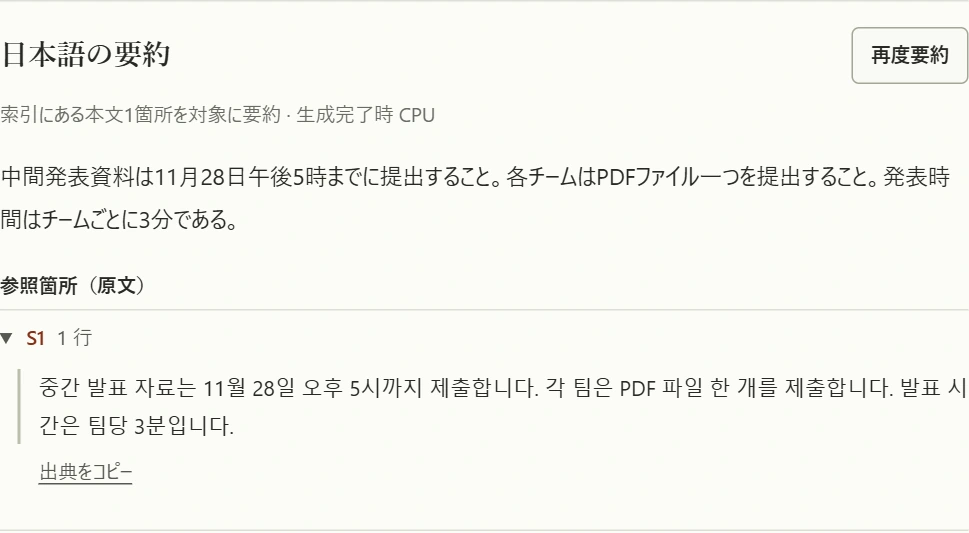
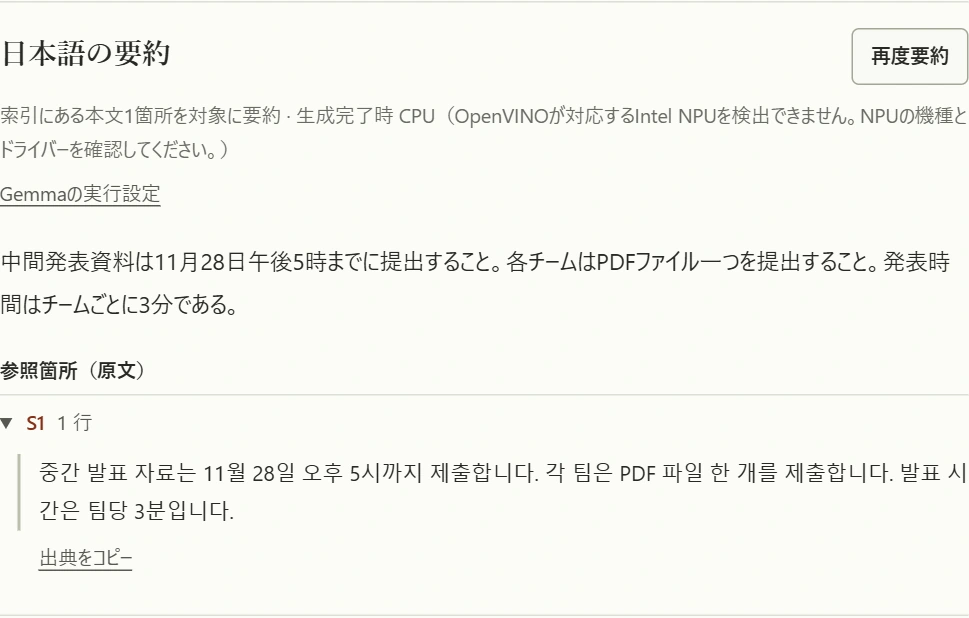
Windows 0.3.8のNPU要約と負荷グラフを案内する (#23)
* NPU要約の実行設定と負荷グラフを実画面で案内する

* 検証済みの0.3.8大学用オフラインZIPを登録する

---------

diff --git a/public/guide/index.html b/public/guide/index.html
@@ -20,7 +20,7 @@
   </header>
   <main id="main" class="frame guide-layout" tabindex="-1">
     <div class="guide-title">
-      <p class="guide-edition">Scene Finder ／ Windows版 0.3.7</p>
+      <p class="guide-edition">Scene Finder ／ Windows版 0.3.8</p>
       <h1>使い方</h1>
       <p>「最終レポートの提出期限」で検索し、課題要項のどこに締切が書かれているかを調べる例です。画面には架空の講義資料を使っています。ご自身のPCでは、手元の資料に合わせて検索語を置き換えてください。画像はクリックやタップで拡大できます。</p>
     </div>
@@ -117,16 +117,23 @@
         <p>登録フォルダーの横の<strong>「…」</strong>で、その授業の自動要約をオンにします。初期設定はオフです。オンにした授業を選ぶと、一覧を表示したまま、本文を読み取れた文書をGemmaが1件ずつ要約します。通常版で初めて使うときは、下の手順でGemmaを追加してください。</p>
         <p>一覧で要点を読み、詳しく知りたい資料を開くと出典を確認できます。別の授業に移っても完成した要約はこのPCに残り、戻ると続きから進みます。文書の更新は「再解析」で取り込みます。その授業の自動要約をオフにすると、保存した要約も削除されます。</p>
         <figure class="guide-shot"><a href="/assets/guide/folder-summaries.webp" target="_blank" rel="noopener" aria-label="文書ごとの自動要約を拡大（新しいタブ）"><img src="/assets/guide/folder-summaries.webp" width="1371" height="611" alt="ファイル一覧で自動要約が2件完了し、読書会と中間発表の要点がそれぞれの資料の下に表示されている。" loading="lazy"></a><figcaption>各資料の「要約」を見比べられます。資料名を押すと要約の全文と出典が開きます。</figcaption></figure>
-        <h3>要約に使ったデバイスを確認する</h3>
-        <p>対応するIntel NPUを搭載したPCでは、手動・自動要約の言語生成にNPUを使います。利用できない場合はCPUで要約を続けます。実行中はアプリ左下の「OpenVINO」を開き、「Gemma」の行を確認できます。完了後は要約の見出しの下に「生成完了時 NPU」または「生成完了時 CPU」と表示されます。0.3.5以前に保存した要約にはデバイス名が付きません。画面上部のNPU負荷グラフには、ほかのアプリも含むPC全体の使用率が表示されます。</p>
-        <p>大学用オフライン版には、NPUとCPUの両方に対応するGemmaが入っています。配布元が案内しているWindows用Intel NPUドライバーのバージョンは32.0.100.4023です。通常版で以前のGemmaを追加した場合は、引き続きCPUで使えます。Intel NPUが検出されたPCで対応モデルを追加するときは、資料のプレビューで<strong>「NPU対応Gemmaを追加」</strong>を押します。</p>
+        <h3 id="npu">Gemmaでの要約にNPUを使う</h3>
+        <p>通常版と大学用オフライン版は、対応するIntel NPUを優先して文章を生成します。大学用にはNPU対応のGemmaが同梱されています。通常版で旧モデルを使用している場合は、対応PCのプレビューに表示される「NPU対応Gemmaを追加」から導入します。</p>
+        <ol>
+          <li>左下の<strong>「OpenVINO」</strong>かプレビューの<strong>「Gemmaの実行設定」</strong>を開きます。「Gemma要約の実行先」で<strong>「NPUのみ（使えないときは停止）」</strong>を選ぶと、GemmaがNPUで文章を生成できないときは理由が表示されます。CPUでも続けたい場合は「NPUを優先」に戻します。</li>
+          <li>文書を開いて<strong>「資料を要約」</strong>を押します。すでに保存済みなら<strong>「再度要約」</strong>を押してください。保存済みの結果を開くだけでは、新たな計算は発生しません。</li>
+          <li>実行中はプレビュー内の負荷グラフ、完了後は<strong>「生成完了時 NPU」</strong>で実行先を確認します。前処理ではCPUも使われます。「NPU全体」の線と60秒の最大値は、そのPC全体でWindowsが計測した値です。縦軸が自動で拡大するので、低い使用率も読み取れます。</li>
+        </ol>
+        <figure class="guide-shot compact"><a href="/assets/guide/gemma-device.webp" target="_blank" rel="noopener" aria-label="Gemmaの実行設定を拡大（新しいタブ）"><img src="/assets/guide/gemma-device.webp" width="645" height="243" alt="NPUのみを選択した設定画面。OpenVINOでIntel NPUを検出できず、NPU対応Gemmaは導入済みと表示されている。" loading="lazy"></a><figcaption>NPUを搭載していない検証用PCの画面です。「NPUのみ」を選ぶと、NPUを使えない場合は要約を停止します。</figcaption></figure>
+        <figure class="guide-shot"><a href="/assets/guide/gemma-load.webp" target="_blank" rel="noopener" aria-label="要約中の負荷グラフを拡大（新しいタブ）"><img src="/assets/guide/gemma-load.webp" width="969" height="210" alt="NPU全体は未検出、アプリCPUの使用率は破線のグラフで表示されている。Gemmaの実行先はCPU。" loading="lazy"></a><figcaption>同じPCで「NPUを優先」に戻し、実際に要約した例です。破線はアプリのCPU使用率で、下の「Gemma」の行で文章を生成しているデバイスを確認できます。</figcaption></figure>
+        <p>「未検出」「計測不可」などが表示されたら、実行設定でOpenVINOがIntel NPUを検出したか、NPU対応Gemmaが導入済みかを確認してください。「診断をコピー」には実行先や停止理由が入り、資料名や本文は入りません。ドライバーは大学の管理者またはPCメーカーの配布元で確認できます。<a href="https://huggingface.co/OpenVINO/gemma-4-E2B-it-int4-cw-ov" rel="noopener">モデル配布元の動作条件</a></p>
         <h3>ひとつの資料を手動で要約する</h3>
         <ol>
           <li>PDF、Word、Excel、PowerPoint、テキスト資料などの検索結果をひとつ開きます。</li>
           <li>通常版の初回は<strong>「Gemmaを追加（4.33 GB）」</strong>でモデルを取得し、完了後に<strong>「資料を要約」</strong>を押します。ダウンロードするのは要約用モデルです。原文にはこのPCで索引に取り込んだ資料の本文を使います。Gemmaを追加済みのPCと大学用オフライン版は、最初から「資料を要約」を押せます。</li>
           <li>下の例では「参照箇所（原文）」の<strong>「S1　1 行」</strong>を開きます。中間発表資料の提出期限が11月28日午後5時であることを、元の韓国語の案内で確認できます。</li>
         </ol>
-        <figure class="guide-shot compact"><a href="/assets/guide/summary.webp" target="_blank" rel="noopener" aria-label="日本語の要約と韓国語の原文を拡大（新しいタブ）"><img src="/assets/guide/summary.webp" width="969" height="533" alt="CPUで日本語に要約した中間発表の案内。提出期限は11月28日午後5時、提出するPDFは各チーム1件、発表時間は3分と表示され、下にS1の韓国語原文が開いている。" loading="lazy"></a><figcaption>韓国語で書かれた中間発表の案内。日本語の要約と原文を同じ画面で読み比べられます。</figcaption></figure>
+        <figure class="guide-shot compact"><a href="/assets/guide/summary.webp" target="_blank" rel="noopener" aria-label="日本語の要約と韓国語の原文を拡大（新しいタブ）"><img src="/assets/guide/summary.webp" width="969" height="618" alt="CPUで日本語に要約した中間発表の案内。提出期限は11月28日午後5時、提出するPDFは各チーム1件、発表時間は3分と表示され、下にS1の韓国語原文が開いている。" loading="lazy"></a><figcaption>韓国語で書かれた中間発表の案内。日本語の要約と原文を同じ画面で読み比べられます。</figcaption></figure>
         <p>処理中は経過時間が表示されます。このPCでの実績や進み具合から予測できるときは「残り約○秒」が出ます。プレビューを閉じて待つ場合は、完了通知の「要約を見る」から戻れます。</p>
         <h3 id="close-preview">読み終えた位置から検索結果に戻る</h3>
         <p>要約の参照番号を押して原文を読み、読み終えたらプレビュー右上の<strong>「×」</strong>を押します。本文や出典を末尾までスクロールしても「×」は同じ位置に残ります。キーボードでは<strong>Escキー</strong>で閉じられます。</p>
@@ -152,9 +159,9 @@
           <div><dt>追加した資料が見つからない</dt><dd>登録フォルダーの「…」から「再解析」を選びます。授業フォルダーを取り違えたときは、「すべてのフォルダー」と種類の「すべて」で検索し直します。</dd></div>
           <div><dt>スキャンしたPDFの文字が違う</dt><dd>「OCR」はWindowsの文字認識で読み取った抜粋です。日付や数値は元のPDFを開いて確かめてください。</dd></div>
           <div><dt>文字を大きくしたい</dt><dd>アプリ上部の「文字サイズ」で90〜150%を選べます。選んだ大きさは次に開いたときも引き継がれます。</dd></div>
-          <div><dt>以前、要約が韓国語で表示された</dt><dd>0.3.7に更新して、該当の資料を開き「資料を要約」を押してください。自動要約をオンにした授業では、フォルダーを選ぶと以前の外国語の要約を日本語で作り直します。</dd></div>
+          <div><dt>以前、要約が韓国語で表示された</dt><dd>0.3.7以降に更新して、該当の資料を開き「資料を要約」を押してください。自動要約をオンにした授業では、フォルダーを選ぶと以前の外国語の要約を日本語で作り直します。</dd></div>
           <div><dt>要約欄に「原文からの抜粋」と出た</dt><dd>Gemmaが日本語の要約を作れなかったときは、資料から日本語の文を引用して表示します。引用できる文もない場合は、プレビューで原文を読むか、もう一度要約してください。</dd></div>
-          <div><dt>NPUが見つからない</dt><dd>対応するIntel NPUが利用できるPCは検索にNPUを使えます。それ以外のPCではCPUで検索できます。検索モデルの処理先はアプリ左下の「OpenVINO」、直近60秒の使用率は上部の「処理負荷」で確認できます。資料の要約でも、対応モデルを用意したPCではIntel NPUを自動で利用します。CPUで続行した場合は、資料のプレビューで要約の実行先を確認できます。音声認識とテーマ別の整理はCPUで行います。</dd></div>
+          <div><dt>NPUのグラフが動かない</dt><dd>資料を新しく要約し、完了時に表示される実行先を確認します。グラフが計測不可でもNPUで生成できる場合があります。CPUに切り替わる理由を確認したいときは<a href="#npu">GemmaのNPU実行設定と診断</a>を開いてください。</dd></div>
         </dl>
         <p>教室でネットに接続できないときも、アプリ上部の「ヘルプ」から操作方法を読めます。</p>
         <a class="primary" href="/#downloads">ダウンロードへ</a>

diff --git a/public/index.html b/public/index.html
@@ -57,28 +57,28 @@
       </div>
     </section>
     <section class="downloads frame" id="downloads" aria-labelledby="downloads-heading">
-      <div class="section-heading"><h2 id="downloads-heading">ダウンロード</h2><p>シーンファインダー 0.3.7 ／ Windows 11 x64 用・無料</p></div>
+      <div class="section-heading"><h2 id="downloads-heading">ダウンロード</h2><p>シーンファインダー 0.3.8 ／ Windows 11 x64 用・無料</p></div>
       <div class="editions">
         <article class="edition standard">
           <h3>通常版</h3>
           <p class="package-type">セットアップEXE <span>／</span> 約727 MB</p>
           <p>インストールすると資料検索と音声入力が使えます。要約・整理も使う場合は、インターネットに接続し、アプリからGemma（約4.33 GB）を一度ダウンロードしてください。</p>
-          <a class="primary" href="https://github.com/altimix/scene-finder-downloads/releases/download/v0.3.7/SceneFinder-Setup-0.3.7-x64.exe">通常版をダウンロード</a>
-          <a class="checksum" href="https://github.com/altimix/scene-finder-downloads/releases/download/v0.3.7/SHA256SUMS.txt">通常版のチェックサム（SHA-256）</a>
+          <a class="primary" href="https://github.com/altimix/scene-finder-downloads/releases/download/v0.3.8/SceneFinder-Setup-0.3.8-x64.exe">通常版をダウンロード</a>
+          <a class="checksum" href="https://github.com/altimix/scene-finder-downloads/releases/download/v0.3.8/SHA256SUMS.txt">通常版のチェックサム（SHA-256）</a>
         </article>
         <article class="edition campus" id="campus">
           <h3>大学用オフライン版</h3>
           <p class="package-type">モデル同梱ZIP <span>／</span> 約5.05 GB</p>
           <p>Gemmaも同梱しています。ZIPをすべて展開し、3個のモデルデータと同じ場所にある大学用EXEを実行してください。ネット接続のない教室でも、最初から要約・整理まで使えます。</p>
-          <a class="primary campus-button" href="/downloads/SceneFinder-Campus-Offline-0.3.7-x64.zip">大学用ZIPをダウンロード</a>
+          <a class="primary campus-button" href="/downloads/SceneFinder-Campus-Offline-0.3.8-x64.zip">大学用ZIPをダウンロード</a>
           <details><summary>個別ファイルで取得する</summary><p>次の4ファイルを同じフォルダーに保存し、セットアップEXEを実行してください。</p>
             <ul>
-              <li><a href="https://github.com/altimix/scene-finder-downloads/releases/download/v0.3.7/SceneFinder-Campus-Setup-0.3.7-x64.exe">大学用セットアップEXE</a></li>
-              <li><a href="https://github.com/altimix/scene-finder-downloads/releases/download/v0.3.7/SceneFinder-Campus-Gemma-0.3.7.part1.bin">モデルデータ 1 / 3</a></li>
-              <li><a href="https://github.com/altimix/scene-finder-downloads/releases/download/v0.3.7/SceneFinder-Campus-Gemma-0.3.7.part2.bin">モデルデータ 2 / 3</a></li>
-              <li><a href="https://github.com/altimix/scene-finder-downloads/releases/download/v0.3.7/SceneFinder-Campus-Gemma-0.3.7.part3.bin">モデルデータ 3 / 3</a></li>
+              <li><a href="https://github.com/altimix/scene-finder-downloads/releases/download/v0.3.8/SceneFinder-Campus-Setup-0.3.8-x64.exe">大学用セットアップEXE</a></li>
+              <li><a href="https://github.com/altimix/scene-finder-downloads/releases/download/v0.3.8/SceneFinder-Campus-Gemma-0.3.8.part1.bin">モデルデータ 1 / 3</a></li>
+              <li><a href="https://github.com/altimix/scene-finder-downloads/releases/download/v0.3.8/SceneFinder-Campus-Gemma-0.3.8.part2.bin">モデルデータ 2 / 3</a></li>
+              <li><a href="https://github.com/altimix/scene-finder-downloads/releases/download/v0.3.8/SceneFinder-Campus-Gemma-0.3.8.part3.bin">モデルデータ 3 / 3</a></li>
             </ul>
-            <a class="checksum" href="https://github.com/altimix/scene-finder-downloads/releases/download/v0.3.7/SHA256SUMS-Campus.txt">大学用のチェックサム（SHA-256）</a>
+            <a class="checksum" href="https://github.com/altimix/scene-finder-downloads/releases/download/v0.3.8/SHA256SUMS-Campus.txt">大学用のチェックサム（SHA-256）</a>
           </details>
         </article>
       </div>
@@ -96,6 +96,6 @@
       </div>
     </section>
   </main>
-  <footer><div class="frame foot-inner"><span class="foot-brand"><img src="assets/brand.svg" alt="" width="22" height="22">Scene Finder</span><a href="https://github.com/altimix/scene-finder-downloads/releases/tag/v0.3.7">リリース情報</a></div></footer>
+  <footer><div class="frame foot-inner"><span class="foot-brand"><img src="assets/brand.svg" alt="" width="22" height="22">Scene Finder</span><a href="https://github.com/altimix/scene-finder-downloads/releases/tag/v0.3.8">リリース情報</a></div></footer>
 </body>
 </html>

diff --git a/src/worker.js b/src/worker.js
@@ -6,9 +6,10 @@ import archive033 from "./campus-archive-0.3.3.json";
 import archive034 from "./campus-archive-0.3.4.json";
 import archive035 from "./campus-archive-0.3.5.json";
 import archive036 from "./campus-archive-0.3.6.json";
+import archive037 from "./campus-archive-0.3.7.json";
 
 const releases = "https://github.com/altimix/scene-finder-downloads/releases/download/";
-const archives = new Map([archive030, archive031, archive032, archive033, archive034, archive035, archive036, currentArchive].map(archive => ["/downloads/" + archive.name, archive]));
+const archives = new Map([archive030, archive031, archive032, archive033, archive034, archive035, archive036, archive037, currentArchive].map(archive => ["/downloads/" + archive.name, archive]));
 
 function windowFor(range, length) {
   if (!range) return [0, length - 1];
